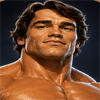
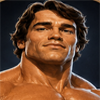
avatares

diff --git a/app/dashboard/community/page.tsx b/app/dashboard/community/page.tsx
@@ -3,12 +3,13 @@
 import Link from "next/link";
 import { Check, Clock3, Dumbbell, Plus, Search, UserPlus, UsersRound, X } from "lucide-react";
 import { useEffect, useState } from "react";
+import { UserAvatar } from "@/components/user/UserAvatar";
 
 type Friend = { friendshipId: string; id: string; name: string; nickname: string | null; avatarUrl: string | null };
-type Request = { id: string; user: { name: string; nickname: string | null } };
-type SharedRoutine = { id: string; name: string; type: string; days: string[]; exerciseCount: number; updatedAt: string; updatedBy: string | null; members: Array<{ id: string; name: string; nickname: string | null }> };
+type Request = { id: string; user: { name: string; nickname: string | null; avatarUrl: string | null } };
+type SharedRoutine = { id: string; name: string; type: string; days: string[]; exerciseCount: number; updatedAt: string; updatedBy: string | null; members: Array<{ id: string; name: string; nickname: string | null; avatarUrl: string | null }> };
 type Community = { friends: Friend[]; requests: Request[]; routines: SharedRoutine[]; friendCount: number; friendLimit: number };
-type SearchResult = { id: string; name: string; nickname: string | null; relationship: { id: string; status: string; sentByMe: boolean } | null };
+type SearchResult = { id: string; name: string; nickname: string | null; avatarUrl: string | null; relationship: { id: string; status: string; sentByMe: boolean } | null };
 
 async function api(path: string, init?: RequestInit) {
   const response = await fetch(path, { ...init, headers: { "Content-Type": "application/json", ...(init?.headers || {}) } });
@@ -29,10 +30,10 @@ export default function CommunityPage() {
 
   return <main className="relative min-h-dvh overflow-hidden bg-[#090a08] px-4 pb-36 pt-28 text-white sm:px-8"><div className="pointer-events-none absolute -right-24 top-20 h-80 w-80 rounded-full bg-sky-400/[.08] blur-3xl" /><div className="relative mx-auto max-w-5xl"><header className="flex flex-wrap items-end justify-between gap-4"><div><p className="text-[10px] font-bold tracking-[.22em] text-[#b7ff00]/70">COMUNIDAD</p><h1 className="mt-2 text-4xl font-semibold tracking-[-.06em] sm:text-5xl">Entrená mejor, juntos.</h1><p className="mt-3 text-sm text-white/40">Compartí estructura y seguimiento, sin comparaciones vacías.</p></div><div className="rounded-2xl border border-[#b7ff00]/15 bg-[#b7ff00]/[.05] px-4 py-3"><p className="text-[10px] font-bold tracking-[.16em] text-[#b7ff00]/70">AMIGOS</p><p className="mt-1 text-xl font-semibold">{community ? `${community.friendCount} / ${community.friendLimit}` : "—"}</p></div></header>
   {error && <p role="alert" className="mt-5 rounded-xl border border-red-400/20 bg-red-400/10 p-3 text-sm text-red-200">{error}</p>}
-  <section className="mt-7 rounded-[28px] border border-white/[.08] bg-[#10110e]/95 p-5 sm:p-6"><div className="flex items-center gap-2 text-[#b7ff00]"><Search size={17}/><p className="text-sm font-semibold text-white">Agregar amigo</p></div><p className="mt-1 text-xs text-white/35">Buscá por su nickname. Ejemplo: @moises</p><div className="mt-4 flex gap-2"><input value={query} onChange={(event) => setQuery(event.target.value)} onKeyDown={(event) => { if (event.key === "Enter") void performSearch(); }} className="input min-w-0 flex-1" maxLength={21} placeholder="@nickname" /><button onClick={() => void performSearch()} disabled={searching || !query.trim()} className="rounded-xl bg-[#b7ff00] px-4 text-sm font-bold text-black disabled:opacity-50">{searching ? "Buscando…" : "Buscar"}</button></div>{result && <div className="mt-4 flex flex-wrap items-center justify-between gap-3 rounded-2xl border border-white/[.07] bg-black/20 p-4"><div><p className="font-semibold">{result.name}</p><p className="text-xs text-white/40">@{result.nickname}</p></div>{!result.relationship ? <button onClick={() => void sendRequest()} disabled={community?.friendCount === community?.friendLimit} className="inline-flex items-center gap-2 rounded-xl border border-[#b7ff00]/30 px-3 py-2 text-xs font-bold text-[#b7ff00] disabled:opacity-40"><UserPlus size={14}/> Agregar</button> : <p className="text-xs font-semibold text-white/45">{result.relationship.status === "ACCEPTED" ? "Ya son amigos" : result.relationship.sentByMe ? "Solicitud enviada" : "Te envió una solicitud"}</p>}</div>}</section>
-  {community?.requests.length ? <section className="mt-6"><div className="flex items-center gap-2"><Clock3 size={16} className="text-[#b7ff00]"/><h2 className="text-sm font-semibold">Solicitudes</h2></div><div className="mt-3 grid gap-3 sm:grid-cols-2">{community.requests.map((request) => <article key={request.id} className="flex items-center justify-between gap-3 rounded-2xl border border-white/[.07] bg-white/[.025] p-4"><div><p className="font-semibold">{request.user.name}</p><p className="text-xs text-white/40">@{request.user.nickname}</p></div><div className="flex gap-2"><button aria-label="Aceptar" onClick={() => void respond(request.id, "accept")} className="grid h-9 w-9 place-items-center rounded-lg bg-[#b7ff00] text-black"><Check size={16}/></button><button aria-label="Rechazar" onClick={() => void respond(request.id, "reject")} className="grid h-9 w-9 place-items-center rounded-lg border border-white/10 text-white/60"><X size={16}/></button></div></article>)}</div></section> : null}
-  <section className="mt-8"><div className="flex items-center justify-between gap-3"><div className="flex items-center gap-2"><UsersRound size={17} className="text-[#b7ff00]"/><h2 className="text-sm font-semibold">Amigos</h2></div><span className="text-xs text-white/35">{community ? `${community.friendCount} de ${community.friendLimit}` : ""}</span></div>{community && !community.friends.length ? <Empty icon={<UsersRound size={23}/>} title="Todavía entrenás solo." text="Agregá hasta 5 amigos y compartan rutinas y progreso." /> : <div className="mt-3 grid gap-3 sm:grid-cols-2 lg:grid-cols-3">{community?.friends.map((friend) => <article key={friend.friendshipId} className="flex items-center gap-3 rounded-2xl border border-white/[.07] bg-white/[.025] p-4"><div className="grid h-10 w-10 place-items-center rounded-full bg-[#b7ff00]/10 text-sm font-bold text-[#b7ff00]">{friend.name.slice(0, 1).toUpperCase()}</div><div className="min-w-0 flex-1"><p className="truncate text-sm font-semibold">{friend.name}</p><p className="truncate text-xs text-white/40">@{friend.nickname}</p></div><button onClick={() => void remove(friend.friendshipId)} aria-label={`Eliminar a ${friend.name}`} className="text-xs text-white/25 hover:text-red-300"><X size={16}/></button></article>)}</div>}</section>
-  <section className="mt-9"><div className="flex flex-wrap items-center justify-between gap-3"><div><p className="text-[10px] font-bold tracking-[.18em] text-[#b7ff00]/70">RUTINAS COMPARTIDAS</p><h2 className="mt-1 text-xl font-semibold">Una estructura, progreso personal.</h2></div><Link href="/dashboard/community/routines/new" className="inline-flex items-center gap-2 rounded-xl bg-[#b7ff00] px-4 py-3 text-sm font-bold text-black"><Plus size={16}/> Crear juntos</Link></div>{community && !community.routines.length ? <Empty icon={<Dumbbell size={23}/>} title="Todavía no tienen una rutina juntos." text="Elegí una rutina personal como base y compartila con un amigo." action="Crear rutina compartida" href="/dashboard/community/routines/new" /> : <div className="mt-4 grid gap-3 sm:grid-cols-2">{community?.routines.map((routine) => <Link key={routine.id} href={`/dashboard/community/routines/${routine.id}`} className="group rounded-[24px] border border-white/[.08] bg-[#10110e]/95 p-5 transition hover:border-[#b7ff00]/30"><div className="flex items-start justify-between gap-3"><div><p className="text-lg font-semibold group-hover:text-[#b7ff00]">{routine.name}</p><p className="mt-1 text-xs text-white/35">{routine.type} · {routine.exerciseCount} ejercicios</p></div><Dumbbell size={18} className="text-[#b7ff00]/70"/></div><p className="mt-5 text-xs text-white/45">{routine.members.map((member) => `@${member.nickname || member.name}`).join(" · ")}</p><p className="mt-2 text-[11px] text-white/25">Editada {new Date(routine.updatedAt).toLocaleDateString("es-AR")}{routine.updatedBy ? ` por @${routine.updatedBy}` : ""}</p></Link>)}</div>}</section>
+  <section className="mt-7 rounded-[28px] border border-white/[.08] bg-[#10110e]/95 p-5 sm:p-6"><div className="flex items-center gap-2 text-[#b7ff00]"><Search size={17}/><p className="text-sm font-semibold text-white">Agregar amigo</p></div><p className="mt-1 text-xs text-white/35">Buscá por su nickname. Ejemplo: @moises</p><div className="mt-4 flex gap-2"><input value={query} onChange={(event) => setQuery(event.target.value)} onKeyDown={(event) => { if (event.key === "Enter") void performSearch(); }} className="input min-w-0 flex-1" maxLength={21} placeholder="@nickname" /><button onClick={() => void performSearch()} disabled={searching || !query.trim()} className="rounded-xl bg-[#b7ff00] px-4 text-sm font-bold text-black disabled:opacity-50">{searching ? "Buscando…" : "Buscar"}</button></div>{result && <div className="mt-4 flex flex-wrap items-center justify-between gap-3 rounded-2xl border border-white/[.07] bg-black/20 p-4"><div className="flex items-center gap-3"><UserAvatar src={result.avatarUrl} name={result.name} nickname={result.nickname} size="md"/><div><p className="font-semibold">{result.name}</p><p className="text-xs text-white/40">@{result.nickname}</p></div></div>{!result.relationship ? <button onClick={() => void sendRequest()} disabled={community?.friendCount === community?.friendLimit} className="inline-flex items-center gap-2 rounded-xl border border-[#b7ff00]/30 px-3 py-2 text-xs font-bold text-[#b7ff00] disabled:opacity-40"><UserPlus size={14}/> Agregar</button> : <p className="text-xs font-semibold text-white/45">{result.relationship.status === "ACCEPTED" ? "Ya son amigos" : result.relationship.sentByMe ? "Solicitud enviada" : "Te envió una solicitud"}</p>}</div>}</section>
+  {community?.requests.length ? <section className="mt-6"><div className="flex items-center gap-2"><Clock3 size={16} className="text-[#b7ff00]"/><h2 className="text-sm font-semibold">Solicitudes</h2></div><div className="mt-3 grid gap-3 sm:grid-cols-2">{community.requests.map((request) => <article key={request.id} className="flex items-center justify-between gap-3 rounded-2xl border border-white/[.07] bg-white/[.025] p-4"><div className="flex items-center gap-3"><UserAvatar src={request.user.avatarUrl} name={request.user.name} nickname={request.user.nickname} size="md"/><div><p className="font-semibold">{request.user.name}</p><p className="text-xs text-white/40">@{request.user.nickname}</p></div></div><div className="flex gap-2"><button aria-label="Aceptar" onClick={() => void respond(request.id, "accept")} className="grid h-9 w-9 place-items-center rounded-lg bg-[#b7ff00] text-black"><Check size={16}/></button><button aria-label="Rechazar" onClick={() => void respond(request.id, "reject")} className="grid h-9 w-9 place-items-center rounded-lg border border-white/10 text-white/60"><X size={16}/></button></div></article>)}</div></section> : null}
+  <section className="mt-8"><div className="flex items-center justify-between gap-3"><div className="flex items-center gap-2"><UsersRound size={17} className="text-[#b7ff00]"/><h2 className="text-sm font-semibold">Amigos</h2></div><span className="text-xs text-white/35">{community ? `${community.friendCount} de ${community.friendLimit}` : ""}</span></div>{community && !community.friends.length ? <Empty icon={<UsersRound size={23}/>} title="Todavía entrenás solo." text="Agregá hasta 5 amigos y compartan rutinas y progreso." /> : <div className="mt-3 grid gap-3 sm:grid-cols-2 lg:grid-cols-3">{community?.friends.map((friend) => <article key={friend.friendshipId} className="flex items-center gap-3 rounded-2xl border border-white/[.07] bg-white/[.025] p-4"><UserAvatar src={friend.avatarUrl} name={friend.name} nickname={friend.nickname} size="md"/><div className="min-w-0 flex-1"><p className="truncate text-sm font-semibold">{friend.name}</p><p className="truncate text-xs text-white/40">@{friend.nickname}</p></div><button onClick={() => void remove(friend.friendshipId)} aria-label={`Eliminar a ${friend.name}`} className="text-xs text-white/25 hover:text-red-300"><X size={16}/></button></article>)}</div>}</section>
+  <section className="mt-9"><div className="flex flex-wrap items-center justify-between gap-3"><div><p className="text-[10px] font-bold tracking-[.18em] text-[#b7ff00]/70">RUTINAS COMPARTIDAS</p><h2 className="mt-1 text-xl font-semibold">Una estructura, progreso personal.</h2></div><Link href="/dashboard/community/routines/new" className="inline-flex items-center gap-2 rounded-xl bg-[#b7ff00] px-4 py-3 text-sm font-bold text-black"><Plus size={16}/> Crear juntos</Link></div>{community && !community.routines.length ? <Empty icon={<Dumbbell size={23}/>} title="Todavía no tienen una rutina juntos." text="Elegí una rutina personal como base y compartila con un amigo." action="Crear rutina compartida" href="/dashboard/community/routines/new" /> : <div className="mt-4 grid gap-3 sm:grid-cols-2">{community?.routines.map((routine) => <Link key={routine.id} href={`/dashboard/community/routines/${routine.id}`} className="group rounded-[24px] border border-white/[.08] bg-[#10110e]/95 p-5 transition hover:border-[#b7ff00]/30"><div className="flex items-start justify-between gap-3"><div><p className="text-lg font-semibold group-hover:text-[#b7ff00]">{routine.name}</p><p className="mt-1 text-xs text-white/35">{routine.type} · {routine.exerciseCount} ejercicios</p></div><Dumbbell size={18} className="text-[#b7ff00]/70"/></div><div className="mt-5 flex items-center gap-2">{routine.members.map((member) => <UserAvatar key={member.id} src={member.avatarUrl} name={member.name} nickname={member.nickname} size="sm"/>)}<p className="text-xs text-white/45">{routine.members.map((member) => `@${member.nickname || member.name}`).join(" · ")}</p></div><p className="mt-2 text-[11px] text-white/25">Editada {new Date(routine.updatedAt).toLocaleDateString("es-AR")}{routine.updatedBy ? ` por @${routine.updatedBy}` : ""}</p></Link>)}</div>}</section>
   </div></main>;
 }
 

diff --git a/app/dashboard/community/routines/[id]/page.tsx b/app/dashboard/community/routines/[id]/page.tsx
@@ -4,8 +4,9 @@ import Link from "next/link";
 import { ArrowLeft, Dumbbell, LogOut, Pencil, UsersRound } from "lucide-react";
 import { useParams, useRouter } from "next/navigation";
 import { useEffect, useState } from "react";
+import { UserAvatar } from "@/components/user/UserAvatar";
 
-type Dashboard = { routine: { id: string; name: string; type: string; days: string[]; updatedAt: string; updatedBy: string | null }; members: Array<{ id: string; name: string; nickname: string | null; metrics: { sessions: number; volume: number; sets: number; prs: number } }>; exercises: Array<{ name: string; members: Array<{ userId: string; current: number; previous: number; progress: number | null }> }>; activity: Array<{ id: string; date: string; text: string }> };
+type Dashboard = { routine: { id: string; name: string; type: string; days: string[] }; members: Array<{ id: string; name: string; nickname: string | null; avatarUrl: string | null; metrics: { sessions: number; volume: number; sets: number; prs: number } }>; exercises: Array<{ name: string; members: Array<{ userId: string; current: number; previous: number; progress: number | null }> }>; activity: Array<{ id: string; name: string; nickname: string | null; avatarUrl: string | null; date: string; text: string }> };
 const number = (value: number) => value.toLocaleString("es-AR", { maximumFractionDigits: 0 });
 
 export default function SharedRoutineDashboardPage() {
@@ -13,7 +14,7 @@ export default function SharedRoutineDashboardPage() {
   useEffect(() => { void fetch(`/api/community/routines/${id}/dashboard`).then(async (response) => { const body = await response.json().catch(() => ({})); if (!response.ok) throw new Error(body.error || "No pudimos abrir esta rutina."); return body; }).then(setData).catch((cause) => setError(cause instanceof Error ? cause.message : "No pudimos abrir esta rutina.")); }, [id]);
   const leave = async () => { if (!window.confirm("¿Abandonar esta rutina compartida? Tus sesiones ya registradas se conservan.")) return; const response = await fetch(`/api/community/routines/${id}/leave`, { method: "POST" }); if (response.ok) router.replace("/dashboard/community"); else { const body = await response.json().catch(() => ({})); setError(body.error || "No se pudo abandonar la rutina."); } };
   if (!data) return <main className="min-h-dvh bg-[#090a08] px-4 pb-36 pt-28 text-white"><div className="mx-auto max-w-4xl text-sm text-white/45">{error || "Cargando rutina compartida…"}</div></main>;
-  return <main className="min-h-dvh bg-[#090a08] px-4 pb-36 pt-28 text-white sm:px-8"><div className="mx-auto max-w-4xl"><Link href="/dashboard/community" className="inline-flex items-center gap-2 text-xs text-white/45 hover:text-white"><ArrowLeft size={15}/> Comunidad</Link><header className="mt-8 flex flex-wrap items-end justify-between gap-4"><div><p className="text-[10px] font-bold tracking-[.22em] text-[#b7ff00]/70">RUTINA COMPARTIDA</p><h1 className="mt-2 text-3xl font-semibold tracking-[-.05em] sm:text-4xl">{data.routine.name}</h1><p className="mt-2 text-sm text-white/40">{data.routine.type} · {data.routine.days.join(", ")}</p></div><div className="flex flex-wrap gap-2"><Link href={`/dashboard/routine/${id}`} className="inline-flex items-center gap-2 rounded-xl bg-[#b7ff00] px-4 py-3 text-sm font-bold text-black"><Dumbbell size={16}/> Entrenar</Link><Link href={`/dashboard/routine/${id}/edit`} className="inline-flex items-center gap-2 rounded-xl border border-white/10 px-4 py-3 text-sm font-semibold text-white/70"><Pencil size={15}/> Editar</Link></div></header>{error && <p role="alert" className="mt-5 text-sm text-red-300">{error}</p>}<section className="mt-7 rounded-[28px] border border-[#b7ff00]/15 bg-[#10110e] p-5 sm:p-7"><div className="flex items-center gap-2"><UsersRound size={17} className="text-[#b7ff00]"/><p className="text-sm font-semibold">Esta semana</p></div><div className="mt-5 grid gap-3 sm:grid-cols-2">{data.members.map((member) => <article key={member.id} className="rounded-2xl border border-white/[.07] bg-black/20 p-4"><p className="font-semibold">{member.name}</p><p className="text-xs text-white/40">@{member.nickname}</p><div className="mt-4 grid grid-cols-2 gap-3"><Metric label="Entrenamientos" value={String(member.metrics.sessions)}/><Metric label="Volumen" value={`${number(member.metrics.volume)} kg`}/><Metric label="Series" value={String(member.metrics.sets)}/><Metric label="Nuevos PR" value={String(member.metrics.prs)}/></div></article>)}</div><p className="mt-5 text-xs text-white/35">Los dos están mejorando. Cada métrica refleja el progreso propio.</p></section><section className="mt-7"><p className="text-[10px] font-bold tracking-[.18em] text-[#b7ff00]/70">PROGRESO POR EJERCICIO</p>{!data.exercises.length ? <p className="mt-3 text-sm text-white/35">Cuando completen sesiones, el progreso individual aparecerá acá.</p> : <div className="mt-4 space-y-3">{data.exercises.map((exercise) => <article key={exercise.name} className="rounded-2xl border border-white/[.07] bg-white/[.025] p-4"><p className="font-semibold">{exercise.name}</p><div className="mt-4 grid gap-3 sm:grid-cols-2">{exercise.members.map((metric) => { const member = data.members.find((item) => item.id === metric.userId); return <div key={metric.userId} className="rounded-xl bg-black/20 p-3"><p className="text-xs font-semibold">{member?.name}</p><p className="mt-2 text-xs text-white/40">Semana anterior: {metric.previous ? `${metric.previous} e1RM` : "Sin referencia"}</p><p className="mt-1 text-xs text-white/60">Esta semana: {metric.current ? `${metric.current} e1RM` : "Sin registro"}</p><p className="mt-2 text-sm font-bold text-[#b7ff00]">{metric.progress === null ? "Primer registro" : `${metric.progress >= 0 ? "+" : ""}${metric.progress}%`}</p></div>; })}</div></article>)}</div>}</section><section className="mt-7"><p className="text-[10px] font-bold tracking-[.18em] text-[#b7ff00]/70">ACTIVIDAD</p>{!data.activity.length ? <p className="mt-3 text-sm text-white/35">Todavía no hay actividad en esta rutina.</p> : <div className="mt-3 space-y-2">{data.activity.map((item) => <div key={item.id} className="rounded-xl border border-white/[.06] bg-white/[.02] px-4 py-3"><p className="text-sm text-white/75">{item.text}</p><p className="mt-1 text-[11px] text-white/25">{new Date(item.date).toLocaleString("es-AR")}</p></div>)}</div>}</section><button onClick={() => void leave()} className="mt-8 inline-flex items-center gap-2 rounded-xl px-3 py-3 text-sm text-red-300/70 hover:bg-red-400/10"><LogOut size={16}/> Abandonar rutina compartida</button></div></main>;
+  return <main className="min-h-dvh bg-[#090a08] px-4 pb-36 pt-28 text-white sm:px-8"><div className="mx-auto max-w-4xl"><Link href="/dashboard/community" className="inline-flex items-center gap-2 text-xs text-white/45 hover:text-white"><ArrowLeft size={15}/> Comunidad</Link><header className="mt-8 flex flex-wrap items-end justify-between gap-4"><div><p className="text-[10px] font-bold tracking-[.22em] text-[#b7ff00]/70">RUTINA COMPARTIDA</p><h1 className="mt-2 text-3xl font-semibold tracking-[-.05em] sm:text-4xl">{data.routine.name}</h1><p className="mt-2 text-sm text-white/40">{data.routine.type} · {data.routine.days.join(", ")}</p></div><div className="flex flex-wrap gap-2"><Link href={`/dashboard/routine/${id}`} className="inline-flex items-center gap-2 rounded-xl bg-[#b7ff00] px-4 py-3 text-sm font-bold text-black"><Dumbbell size={16}/> Entrenar</Link><Link href={`/dashboard/routine/${id}/edit`} className="inline-flex items-center gap-2 rounded-xl border border-white/10 px-4 py-3 text-sm font-semibold text-white/70"><Pencil size={15}/> Editar</Link></div></header>{error && <p role="alert" className="mt-5 text-sm text-red-300">{error}</p>}<section className="mt-7 rounded-[28px] border border-[#b7ff00]/15 bg-[#10110e] p-5 sm:p-7"><div className="flex items-center gap-2"><UsersRound size={17} className="text-[#b7ff00]"/><p className="text-sm font-semibold">Esta semana</p></div><div className="mt-5 grid gap-3 sm:grid-cols-2">{data.members.map((member) => <article key={member.id} className="rounded-2xl border border-white/[.07] bg-black/20 p-4"><div className="flex items-center gap-3"><UserAvatar src={member.avatarUrl} name={member.name} nickname={member.nickname} size="md"/><div><p className="font-semibold">{member.name}</p><p className="text-xs text-white/40">@{member.nickname}</p></div></div><div className="mt-4 grid grid-cols-2 gap-3"><Metric label="Entrenamientos" value={String(member.metrics.sessions)}/><Metric label="Volumen" value={`${number(member.metrics.volume)} kg`}/><Metric label="Series" value={String(member.metrics.sets)}/><Metric label="Nuevos PR" value={String(member.metrics.prs)}/></div></article>)}</div><p className="mt-5 text-xs text-white/35">Los dos están mejorando. Cada métrica refleja el progreso propio.</p></section><section className="mt-7"><p className="text-[10px] font-bold tracking-[.18em] text-[#b7ff00]/70">PROGRESO POR EJERCICIO</p>{!data.exercises.length ? <p className="mt-3 text-sm text-white/35">Cuando completen sesiones, el progreso individual aparecerá acá.</p> : <div className="mt-4 space-y-3">{data.exercises.map((exercise) => <article key={exercise.name} className="rounded-2xl border border-white/[.07] bg-white/[.025] p-4"><p className="font-semibold">{exercise.name}</p><div className="mt-4 grid gap-3 sm:grid-cols-2">{exercise.members.map((metric) => { const member = data.members.find((item) => item.id === metric.userId); return <div key={metric.userId} className="rounded-xl bg-black/20 p-3"><div className="flex items-center gap-2"><UserAvatar src={member?.avatarUrl} name={member?.name} nickname={member?.nickname} size="sm"/><p className="text-xs font-semibold">{member?.name}</p></div><p className="mt-2 text-xs text-white/40">Semana anterior: {metric.previous ? `${metric.previous} e1RM` : "Sin referencia"}</p><p className="mt-1 text-xs text-white/60">Esta semana: {metric.current ? `${metric.current} e1RM` : "Sin registro"}</p><p className="mt-2 text-sm font-bold text-[#b7ff00]">{metric.progress === null ? "Primer registro" : `${metric.progress >= 0 ? "+" : ""}${metric.progress}%`}</p></div>; })}</div></article>)}</div>}</section><section className="mt-7"><p className="text-[10px] font-bold tracking-[.18em] text-[#b7ff00]/70">ACTIVIDAD</p>{!data.activity.length ? <p className="mt-3 text-sm text-white/35">Todavía no hay actividad en esta rutina.</p> : <div className="mt-3 space-y-2">{data.activity.map((item) => <div key={item.id} className="flex items-center gap-3 rounded-xl border border-white/[.06] bg-white/[.02] px-4 py-3"><UserAvatar src={item.avatarUrl} name={item.name} nickname={item.nickname} size="sm"/><div><p className="text-sm text-white/75">{item.text}</p><p className="mt-1 text-[11px] text-white/25">{new Date(item.date).toLocaleString("es-AR")}</p></div></div>)}</div>}</section><button onClick={() => void leave()} className="mt-8 inline-flex items-center gap-2 rounded-xl px-3 py-3 text-sm text-red-300/70 hover:bg-red-400/10"><LogOut size={16}/> Abandonar rutina compartida</button></div></main>;
 }
 
 function Metric({ label, value }: { label: string; value: string }) { return <div><p className="text-lg font-semibold">{value}</p><p className="text-[11px] text-white/35">{label}</p></div>; }

diff --git a/app/dashboard/user/user-panel.tsx b/app/dashboard/user/user-panel.tsx
@@ -7,9 +7,11 @@ import { clearOfflineUser, syncPendingSessions, unsyncedSyncCount } from "@/lib/
 import { deleteAccount, updateProfile } from "./actions";
 import { BadgeShowcase, UserBadgeStrip } from "@/components/badges/UserBadges";
 import type { UserBadge } from "@/lib/badges";
+import { AVATAR_OPTIONS } from "@/lib/avatars";
+import { UserAvatar } from "@/components/user/UserAvatar";
 
 type UserPanelProps = {
-  user: { name: string; email: string; nickname: string; createdAt: string };
+  user: { name: string; email: string; nickname: string; avatarUrl: string | null; createdAt: string };
   badges: UserBadge[];
   stats: { logins: number; seconds: number; habitCompletions: number; dietLogs: number };
 };
@@ -18,6 +20,7 @@ export default function UserPanel({ user, badges, stats }: UserPanelProps) {
   const router = useRouter();
   const [logoutError, setLogoutError] = useState("");
   const [loggingOut, setLoggingOut] = useState(false);
+  const [avatarUrl, setAvatarUrl] = useState<string | null>(user.avatarUrl);
   const [state, action, pending] = useActionState(async (_: string, data: FormData) => {
     try {
       await updateProfile(data);
@@ -53,13 +56,14 @@ export default function UserPanel({ user, badges, stats }: UserPanelProps) {
     <div className="pointer-events-none absolute -right-24 top-20 h-80 w-80 rounded-full bg-sky-400/9 blur-3xl toro-breathe" />
     <div className="pointer-events-none absolute -left-24 top-128 h-72 w-72 rounded-full bg-fuchsia-500/[.07] blur-3xl toro-breathe-reverse" />
     <div className="relative mx-auto max-w-4xl">
-      <header><p className="text-[10px] font-bold tracking-[.22em] text-[#b7ff00]/70">TU ESPACIO</p><div className="mt-2 flex flex-wrap items-center gap-3"><h1 className="text-4xl font-semibold tracking-[-.06em]">{user.name}</h1><UserBadgeStrip badges={badges} size="md" /></div><p className="mt-2 text-sm text-white/40">Perfil, progreso e insignias desbloqueadas.</p></header>
+      <header><p className="text-[10px] font-bold tracking-[.22em] text-[#b7ff00]/70">TU ESPACIO</p><div className="mt-2 flex flex-wrap items-center gap-3"><UserAvatar src={avatarUrl} name={user.name} nickname={user.nickname} size="lg"/><div><h1 className="text-4xl font-semibold tracking-[-.06em]">{user.name}</h1><p className="mt-1 text-sm text-white/40">@{user.nickname}</p></div><UserBadgeStrip badges={badges} size="md" /></div><p className="mt-2 text-sm text-white/40">Perfil, progreso e insignias desbloqueadas.</p></header>
       <BadgeShowcase badges={badges} />
       <div className="mt-7 grid gap-6 lg:grid-cols-[1fr_.8fr]">
         <form action={action} className="rounded-[28px] border border-white/8 bg-[#10110e]/95 p-5 sm:p-7">
           <p className="text-[10px] font-bold tracking-[.18em] text-[#b7ff00]/70">PERFIL</p><p className="mt-2 text-sm leading-6 text-white/40">Actualizá la información básica de tu cuenta.</p>
           <label className="mt-7 block"><span className="mb-2 block text-xs font-medium text-white/55">Nombre</span><input className="input" name="name" defaultValue={user.name} /></label>
           <label className="mt-5 block"><span className="mb-2 block text-xs font-medium text-white/55">Nickname</span><div className="relative"><span className="pointer-events-none absolute left-3 top-1/2 -translate-y-1/2 text-sm text-white/35">@</span><input className="input pl-7" name="nickname" defaultValue={user.nickname} maxLength={20} autoCapitalize="none" pattern="[A-Za-z0-9._]{3,20}" /></div><span className="mt-1 block text-[11px] text-white/30">Te encuentran por este nombre. Sin espacios.</span></label>
+          <input type="hidden" name="avatarUrl" value={avatarUrl || ""}/><div className="mt-6 border-t border-white/[.07] pt-5"><div className="flex items-center gap-3"><UserAvatar src={avatarUrl} name={user.name} nickname={user.nickname} size="md"/><div><p className="text-sm font-semibold">Foto de perfil</p><p className="text-xs text-white/35">Elegí uno de los avatares de TORO.</p></div></div><div className="mt-4 grid grid-cols-4 gap-3 sm:grid-cols-5">{AVATAR_OPTIONS.map((src) => <button key={src} type="button" onClick={() => setAvatarUrl(src)} aria-label={`Elegir ${src}`} className={`rounded-full p-0.5 transition ${avatarUrl === src ? "bg-[#b7ff00] shadow-[0_0_18px_rgba(183,255,0,.25)]" : "bg-transparent opacity-60 hover:opacity-100"}`}><UserAvatar src={src} name={user.name} nickname={user.nickname} size="md" /></button>)}</div><button type="button" onClick={() => setAvatarUrl(null)} className="mt-4 text-xs font-semibold text-white/45 hover:text-[#b7ff00]">Usar inicial como avatar</button></div>
           <label className="mt-5 block"><span className="mb-2 block text-xs font-medium text-white/55">Email</span><input className="input opacity-55" value={user.email} readOnly /></label>
           {state && <p className="mt-3 text-xs text-[#b7ff00]">{state}</p>}
           <button disabled={pending} className="mt-7 flex w-full items-center justify-center gap-2 rounded-xl bg-[#b7ff00] px-5 py-3 text-sm font-bold text-black disabled:opacity-50"><Save size={16} />{pending ? "Guardando…" : "Guardar perfil"}</button>

diff --git a/lib/community.ts b/lib/community.ts
@@ -176,7 +176,7 @@ export async function getSharedRoutineDashboard(userId: string, routineId: strin
   const metrics = new Map(memberIds.map((id) => [id, { sessions: 0, volume: 0, sets: 0, prs: 0 }]));
   const progress = new Map<string, Map<string, { current: number; previous: number }>>();
   const personalBest = new Map<string, Map<string, number>>();
-  const activity: Array<{ id: string; date: string; text: string }> = [];
+  const activity: Array<{ id: string; userId: string; name: string; nickname: string | null; avatarUrl: string | null; date: string; text: string }> = [];
   for (const session of sessions) {
     const at = session.finishedAt || session.updatedAt;
     const currentWeek = at >= since;
@@ -201,7 +201,7 @@ export async function getSharedRoutineDashboard(userId: string, routineId: strin
     }
     if (currentWeek) { metric.volume += sessionVolume; metric.sets += completedSets; metric.prs += sessionPrs; }
     const member = routine.members.find((item) => item.userId === session.userId)?.user;
-    if (member && session.status === "FINISHED") activity.push({ id: session.id, date: at.toISOString(), text: `@${member.nickname || member.name || "atleta"} completó ${routine.name}` });
+    if (member && session.status === "FINISHED") activity.push({ id: session.id, userId: session.userId, name: member.name || member.nickname || "Atleta", nickname: member.nickname, avatarUrl: member.avatarUrl, date: at.toISOString(), text: `@${member.nickname || member.name || "atleta"} completó ${routine.name}` });
   }
   return {
     routine: { id: routine.id, name: routine.name, type: routine.type, days: Array.isArray(routine.days) ? routine.days : [], updatedAt: routine.updatedAt.toISOString(), updatedBy: routine.updatedBy ? (routine.updatedBy.nickname || routine.updatedBy.name) : null },

diff --git a/app/dashboard/user/actions.ts b/app/dashboard/user/actions.ts
@@ -6,15 +6,19 @@ import { cookies } from "next/headers";
 import { deleteCurrentSession, getCurrentUser, SESSION_COOKIE } from "@/lib/auth";
 import { getPrisma } from "@/lib/prisma";
 import { validateNickname } from "@/lib/community";
+import { isAvatarUrl } from "@/lib/avatars";
 
 export async function updateProfile(formData: FormData) {
   const user = await getCurrentUser();
   if (!user) throw new Error("No autorizado");
   const name = String(formData.get("name") || "").trim();
   const nickname = validateNickname(String(formData.get("nickname") || ""));
+  const avatarInput = String(formData.get("avatarUrl") || "");
+  const avatarUrl = avatarInput ? (isAvatarUrl(avatarInput) ? avatarInput : undefined) : null;
   if (!name || name.length > 60) throw new Error("El nombre debe tener entre 1 y 60 caracteres.");
   if (!nickname) throw new Error("El nickname debe tener entre 3 y 20 caracteres y solo puede usar letras, números, . o _.");
-  try { await getPrisma().user.update({ where: { id: user.id }, data: { name, nickname } }); }
+  if (avatarUrl === undefined) throw new Error("El avatar seleccionado no está disponible.");
+  try { await getPrisma().user.update({ where: { id: user.id }, data: { name, nickname, avatarUrl } }); }
   catch { throw new Error("Ese nickname ya está en uso."); }
   revalidatePath("/dashboard");
   revalidatePath("/dashboard/user");

diff --git a/components/user/UserAvatar.tsx b/components/user/UserAvatar.tsx
@@ -1,0 +1,19 @@
+import { isAvatarUrl } from "@/lib/avatars";
+import Image from "next/image";
+
+type UserAvatarProps = {
+  src?: string | null;
+  name?: string | null;
+  nickname?: string | null;
+  size?: "sm" | "md" | "lg";
+  className?: string;
+};
+
+const sizes = { sm: "h-8 w-8 text-xs", md: "h-10 w-10 text-sm", lg: "h-20 w-20 text-2xl" };
+const dimensions = { sm: 32, md: 40, lg: 80 };
+
+export function UserAvatar({ src, name, nickname, size = "md", className = "" }: UserAvatarProps) {
+  const label = nickname || name || "Usuario";
+  if (isAvatarUrl(src)) return <Image src={src} alt={`Avatar de ${label}`} width={dimensions[size]} height={dimensions[size]} className={`shrink-0 rounded-full object-cover ring-1 ring-white/10 ${sizes[size]} ${className}`} />;
+  return <div role="img" aria-label={`Avatar de ${label}`} className={`grid shrink-0 place-items-center rounded-full bg-[#b7ff00]/10 font-bold text-[#b7ff00] ring-1 ring-[#b7ff00]/15 ${sizes[size]} ${className}`}>{label.trim().slice(0, 1).toLocaleUpperCase() || "T"}</div>;
+}

diff --git a/app/dashboard/user/page.tsx b/app/dashboard/user/page.tsx
@@ -12,5 +12,5 @@ export default async function UserPage() {
     getPrisma().dietDailyLog.count({ where: { diet: { userId: user.id } } }),
     getUserBadgeProfile(user.id, displayName),
   ]);
-  return <UserPanel user={{ name: badgeProfile.displayName, email: user.email || "", nickname: user.nickname || user.username || "", createdAt: user.createdAt.toISOString() }} badges={badgeProfile.badges} stats={{ logins: user.loginCount, seconds: user.appSeconds, habitCompletions, dietLogs }} />;
+  return <UserPanel user={{ name: badgeProfile.displayName, email: user.email || "", nickname: user.nickname || user.username || "", avatarUrl: user.avatarUrl, createdAt: user.createdAt.toISOString() }} badges={badgeProfile.badges} stats={{ logins: user.loginCount, seconds: user.appSeconds, habitCompletions, dietLogs }} />;
 }

diff --git a/lib/avatars.ts b/lib/avatars.ts
@@ -1,0 +1,16 @@
+export const AVATAR_OPTIONS = [
+  "/avatares/1.png",
+  "/avatares/2.png",
+  "/avatares/3.png",
+  "/avatares/4.png",
+  "/avatares/5.png",
+  "/avatares/6.png",
+  "/avatares/7.png",
+  "/avatares/8.png",
+] as const;
+
+export type AvatarUrl = (typeof AVATAR_OPTIONS)[number];
+
+export function isAvatarUrl(value: unknown): value is AvatarUrl {
+  return typeof value === "string" && (AVATAR_OPTIONS as readonly string[]).includes(value);
+}
